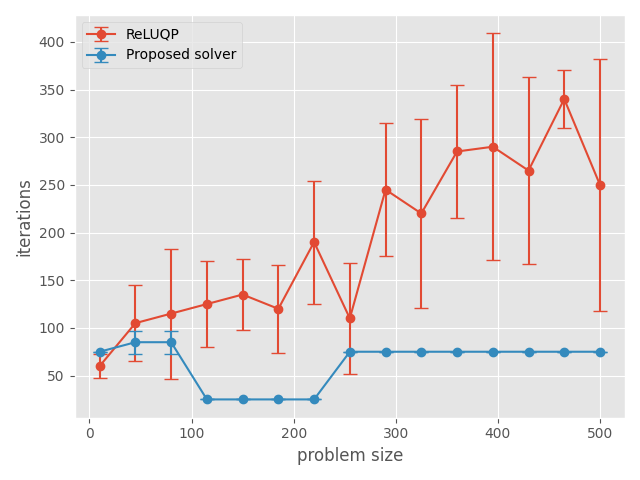
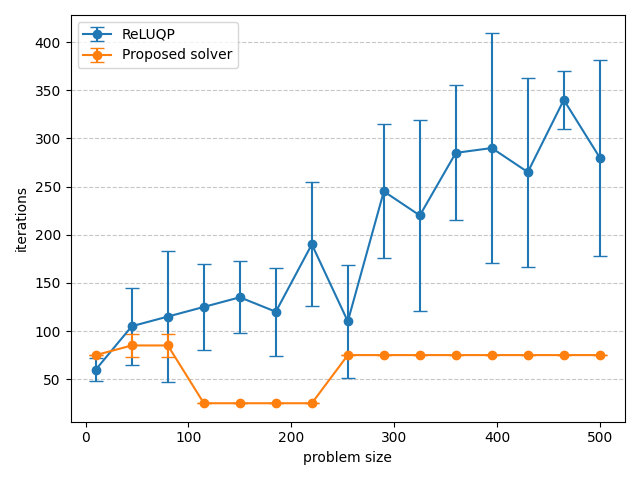
restyled random qps plots

diff --git a/random_qps.py b/random_qps.py
@@ -103,7 +103,7 @@ def random_initial_solve(solvers, nx_min=10, nx_max=1000, n_sample=10, n_seeds=5
             solver_data.compute_iterations_statistics()
             solver_data.compute_solve_time_statistics()
 
-    plt.style.use("ggplot")
+    #xplt.style.use("ggplot")
     
     # solve time plots
     fig, ax = plt.subplots()
@@ -112,6 +112,7 @@ def random_initial_solve(solvers, nx_min=10, nx_max=1000, n_sample=10, n_seeds=5
                 linestyle='-', capsize=5, label=f"{solvers[idx].solver_type}")
     ax.set_xlabel('problem size')
     ax.set_ylabel('solve time (s)')
+    ax.grid(axis='y', linestyle='--', alpha=0.7)
     ax.legend()
     plt.tight_layout()
     plt.savefig(f"/shared/solve_time_comparison.png")
@@ -122,6 +123,7 @@ def random_initial_solve(solvers, nx_min=10, nx_max=1000, n_sample=10, n_seeds=5
         ax.errorbar(nx_list, solver_data.avg_iterations, yerr=solver_data.std_iterations, marker='o', linestyle='-', capsize=5, label=f"{solvers[idx].solver_type}")
     ax.set_xlabel('problem size')
     ax.set_ylabel('iterations')
+    ax.grid(axis='y', linestyle='--', alpha=0.7)
     ax.legend()
     plt.tight_layout()
     plt.savefig(f"/shared/iterations_comparison.png")
